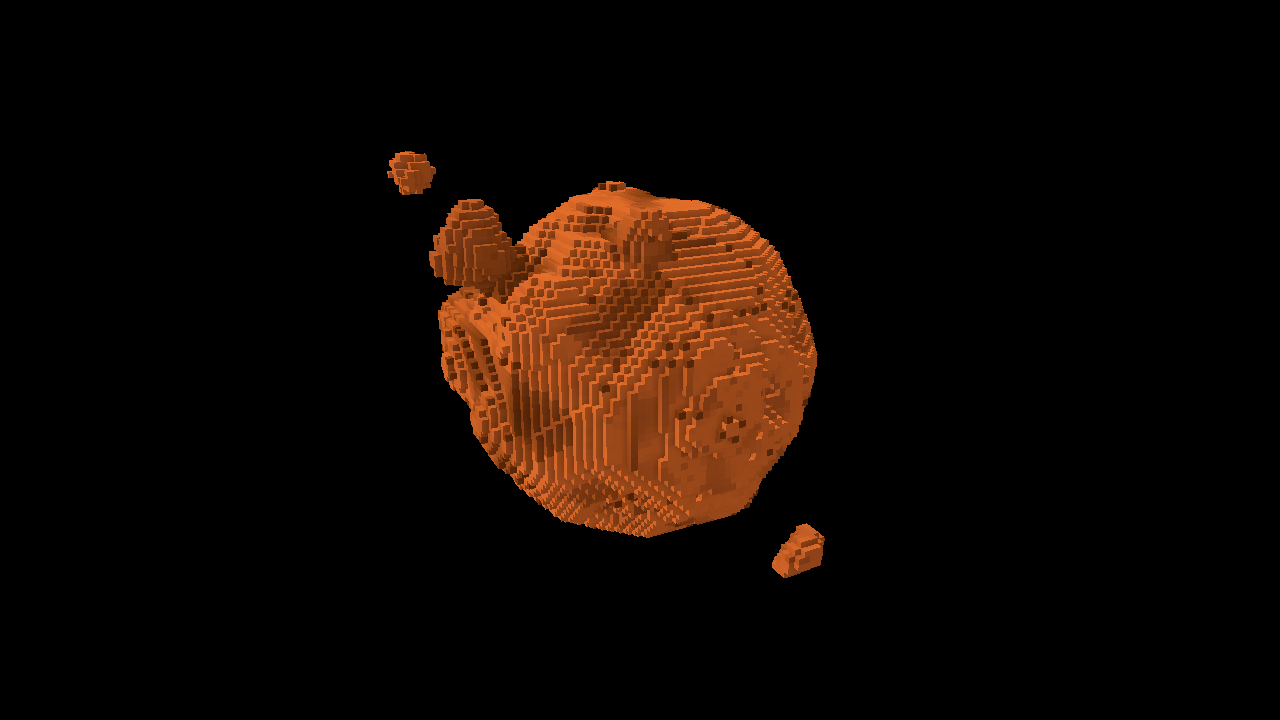
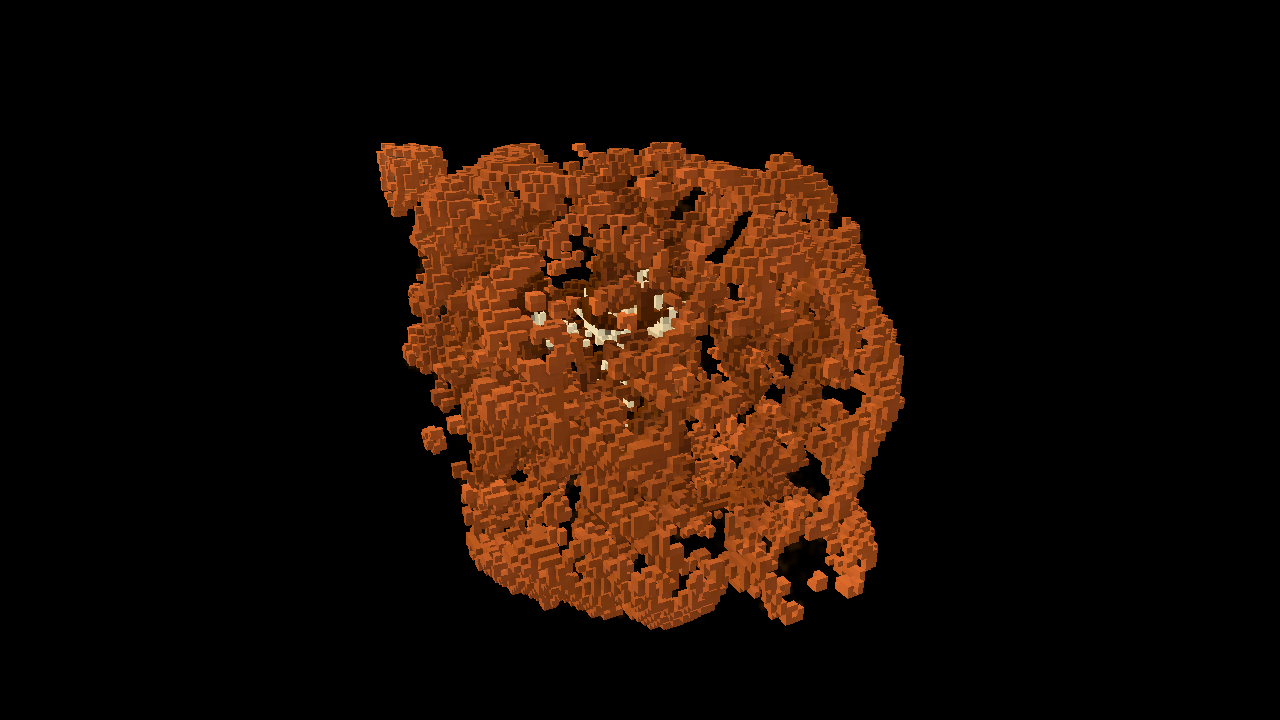
feat(preset): the voxel teaching presets react and the solid one opens up
Voxel Clouds bound nothing to the music, so it settled into a still mass:
it now reseeds on an onset, lights eight radial shells from the spectrum
(shell_gain 1.5) and lifts its brightness on the bass, from a seed ball of
radius 1.0 rather than the whole cube. shot --report reads bass 0.028,
mid 0.014, treb 0.054, onset 0.063 where it read 0.000 on all four.

Voxel Solid runs the pyroclastic rule from a sparser seed, a porous foam
that never settles, so the structure can be seen into, as the owner asked
after judging it live.

The two guide pictures are re-rendered with docs-shots and their alt text
follows them; the on-device voxel check no longer asks a tester to add
bindings clouds.toml now carries. The eight voxel gate tests pass.

Changed region(s): [[0.2812, 0.1833, 0.7188, 0.8861]]

diff --git a/docs/preset-guide.md b/docs/preset-guide.md
@@ -493,9 +493,9 @@ instant. `rows` and `row_period` set how much history there is, in the
 
 ### `voxel`
 
-![A soft-edged cube of glowing orange on black, seen a little from above and turned off square: the
-volume reads as one dense amber mass, darker where it is thickest at the centre and fraying into
-grainy single cells along its edges](images/gallery/voxel.png)
+![A soft-edged ball of glowing orange on black with two small lobes budding off its rim: the volume
+reads as one dense amber mass, darker where it is thickest at the centre and grainy along its
+edges](images/gallery/voxel.png)
 
 *`rules = ["clouds"]` — the teaching preset
 [`docs/examples/voxel/clouds.toml`](examples/voxel/clouds.toml); the shipped set has none yet*
@@ -511,11 +511,11 @@ counts, and the `rule` parameter picks one. Held on the bar, the automaton chang
 bar line. Most 3D rules settle into a shape and hold it, so `reseed` on an onset is how the cube
 stays alive: each rise drops a ball of fresh cells that grows again.
 
-![A rounded mass of small orange cubes on black, with three smaller clumps beside it: each terrace
-of cubes is lit from the upper left, its sides a shade darker, and the creases between terraces
-darkest](images/voxel/solid.png)
+![A porous block of small orange cubes on black, full of holes that show into it: each cube is lit
+from the upper left, its sides a shade darker, the creases between them darkest, and pale decaying
+cells glow in the gaps inside](images/voxel/solid.png)
 
-*`present = "solid"` — the teaching preset
+*`present = "solid"`, `rules = ["pyroclastic"]` — the teaching preset
 [`docs/examples/voxel/solid.toml`](examples/voxel/solid.toml)*
 
 `present = "solid"` draws every live cell as a **lit cube** instead of as light: one key light

diff --git a/docs/on-device-validation.md b/docs/on-device-validation.md
@@ -326,8 +326,8 @@ says what is expected, not what has been run. Each section's own record says tha
       coarser without changing what it is; lowering `voxel_grid` changes the content, so it routes
       to `architect` with the numbers.
 - [ ] **The voxel system's look, any box, with music.** Load `docs/examples/voxel/clouds.toml`, then
-      the same file with `rules = ["coral", "pyroclastic"]`, `rule = "mod(bar_index, 2)"` under
-      `[hold] rule = "bar"`, `reseed = "onset"` and `shells = 8` with `shell_gain = "1.5"`. Say whether
+      the same file with `rules = ["coral", "pyroclastic"]` and `rule = "mod(bar_index, 2)"` under
+      `[hold] rule = "bar"` (`clouds.toml` already reseeds on an onset and lights eight shells). Say whether
       the volume reads as a 3D structure rather than a haze as it turns, whether `density` gives it a
       front and a back, and whether an onset ball and the rule change at a bar line read as the
       music's doing.
